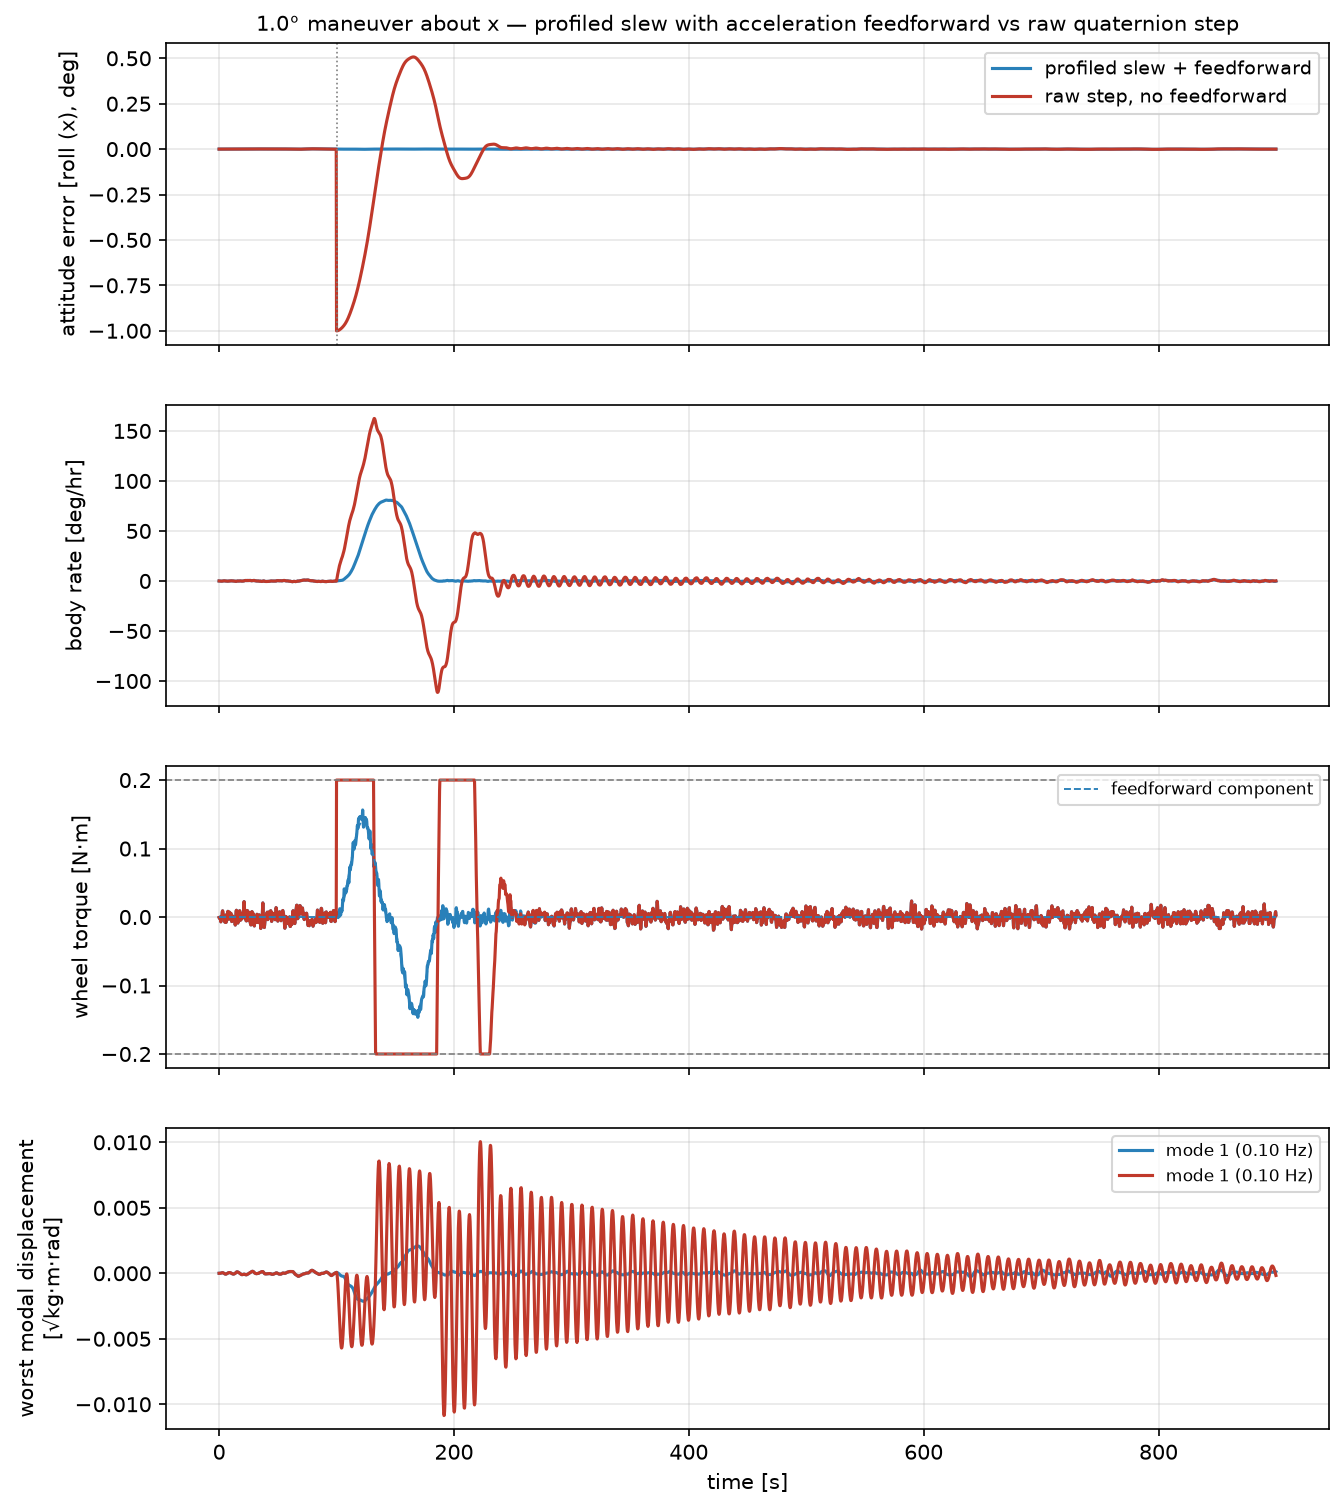
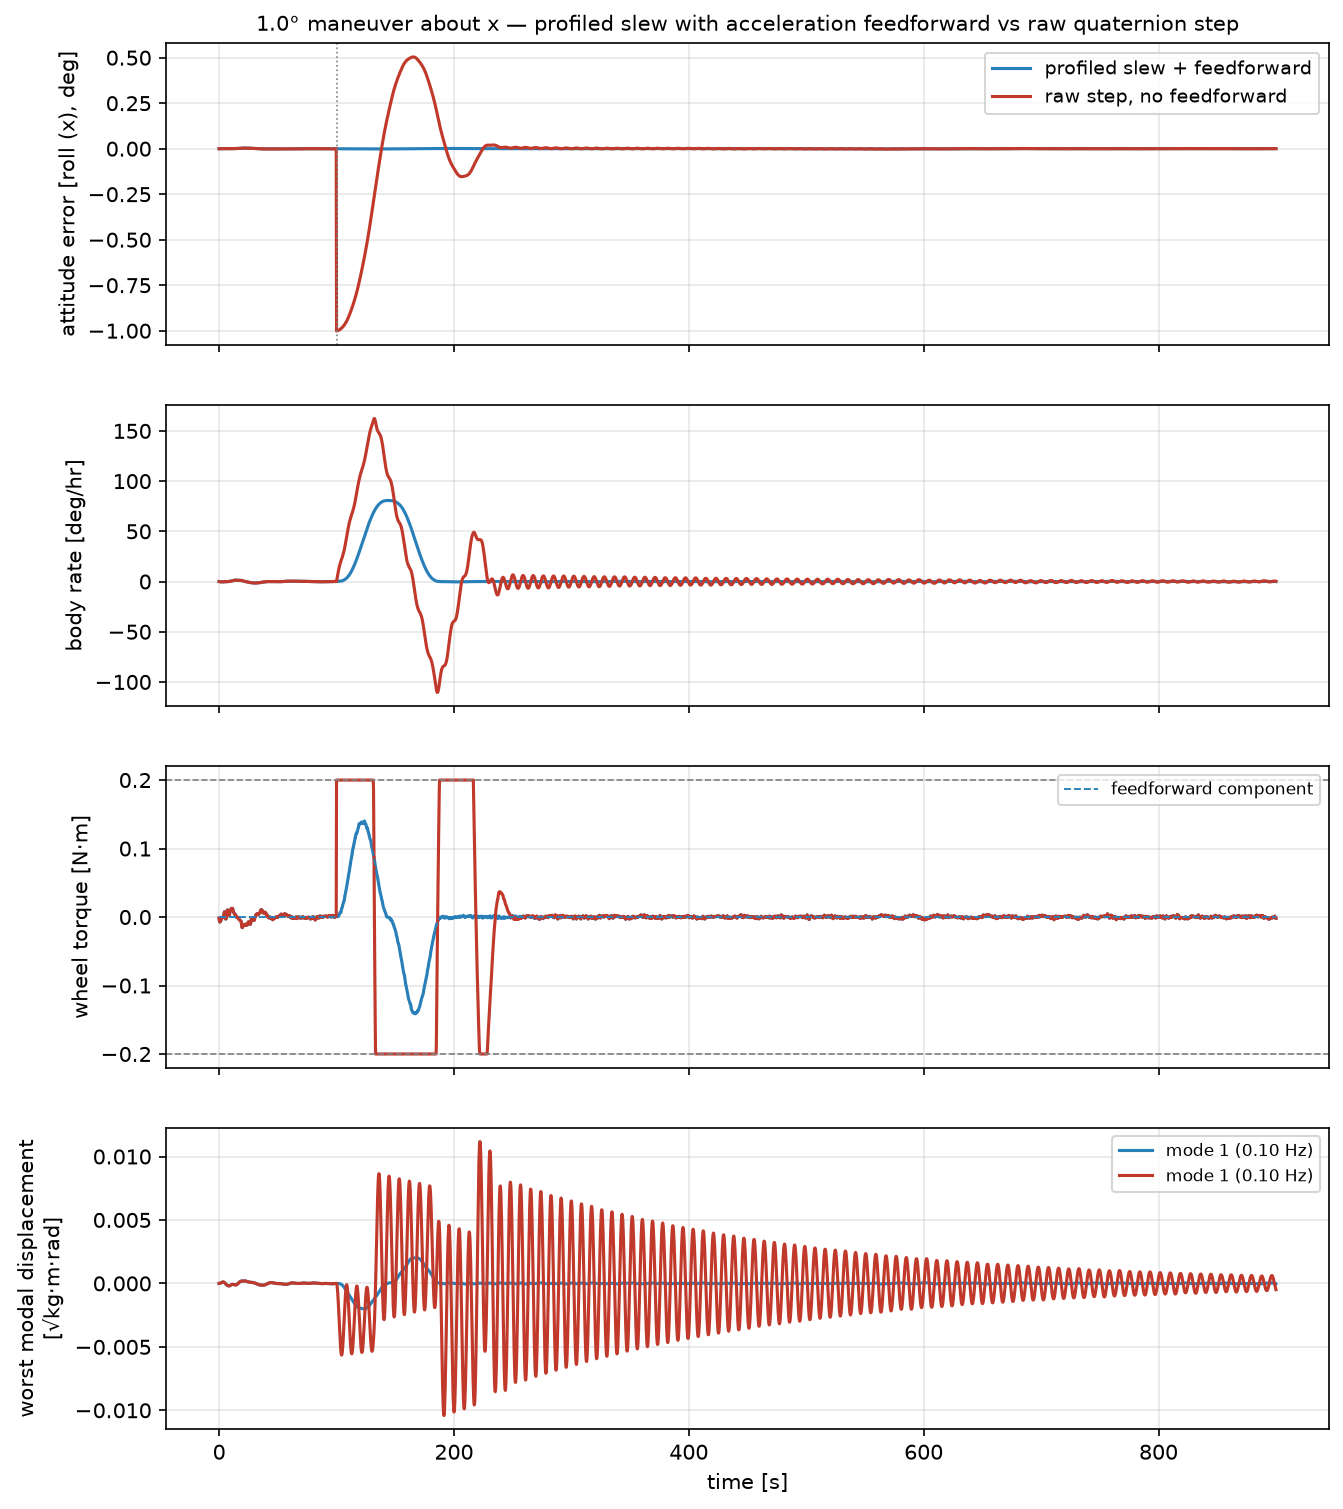
Monte Carlo dispersions; coupled loop-at-a-time margin analysis
Monte Carlo (acs mc):
- montecarlo.py: uniform plant dispersions (inertia via J = S J S,
  mode freq/damping/participation) against the fixed as-designed
  controller; invalid draws (indefinite hybrid mass matrix) redrawn
- Per-sample scoring: worst-axis GM/PM, worst flexible-mode peak,
  coupled closed-loop stability; optional nonlinear time-domain runs;
  scatter/histogram plot, CSV export, pass rates vs GM>=6 dB,
  PM>=30 deg, mode<=-6 dB

Analysis correctness (linearize.py):
- Margins now computed loop-at-a-time on the coupled 3-axis flexible
  plant (other loops closed) so multi-axis modes are credited with
  closed-loop damping; closing the measured loop yields the full
  coupled closed-loop poles
- All loop algebra in state space: polynomial TF arithmetic overflows
  float64 on dispersed flexible plants and yields spurious poles;
  margins from FRD; far-pole augmentation for improper (pure PD)
  controllers
- Verified end-to-end: a dispersed sample predicted unstable diverges
  in the nonlinear sim with 942 s doubling time, matching the linear
  growth rate to 5%

Finding (documented in README): the design is not robust to the
default uncertainty set (mode freq +/-15%, damping floor 0.002) -
1% pass, 14% unstable; the conservative 20 mHz baseline also fails
(~40% pass). Fixed notches cannot chase +/-15% modes at 0.2% damping;
resolutions are program-level (test-correlated FEM, damping
augmentation, adaptive notches, or ~10 mHz bandwidth).
[…]

diff --git a/README.md b/README.md
@@ -194,9 +194,12 @@ src/spacecraft_acs/
   dynamics.py              # flexible-body EOM (RK4)
   actuators.py sensors.py environment.py guidance.py
   profiler.py              # smooth eigenaxis slew profile
+  estimator.py             # 6-state MEKF (attitude + gyro bias)
+  momentum.py              # thruster momentum unload manager
   controller.py            # discrete quaternion PID + filters + feedforward
   simulate.py              # closed-loop sim + step/maneuver metrics
-  linearize.py             # per-axis LTI models, margins, closed loop
+  linearize.py             # coupled loop-at-a-time LTI margins, closed loop
+  montecarlo.py            # plant-dispersion robustness analysis
   plotting.py cli.py
 tests/                     # physics + control verification suite
 ```